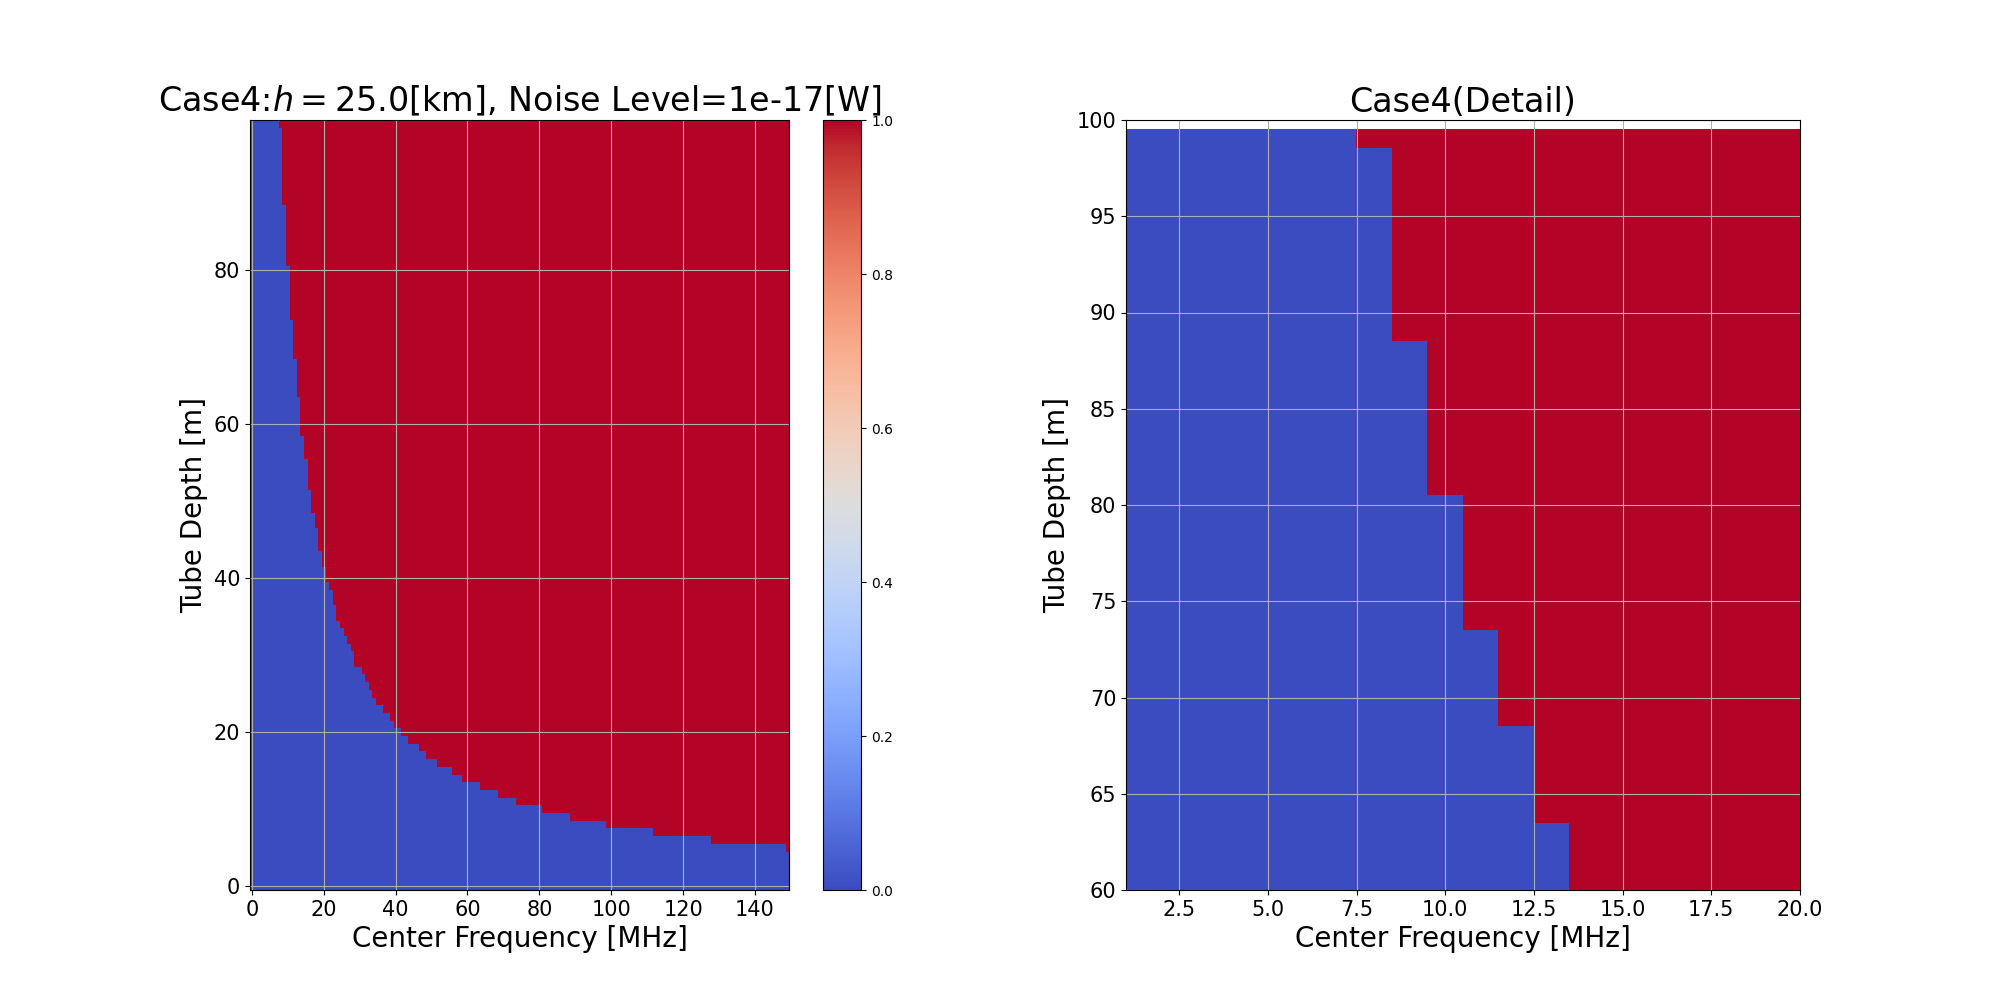
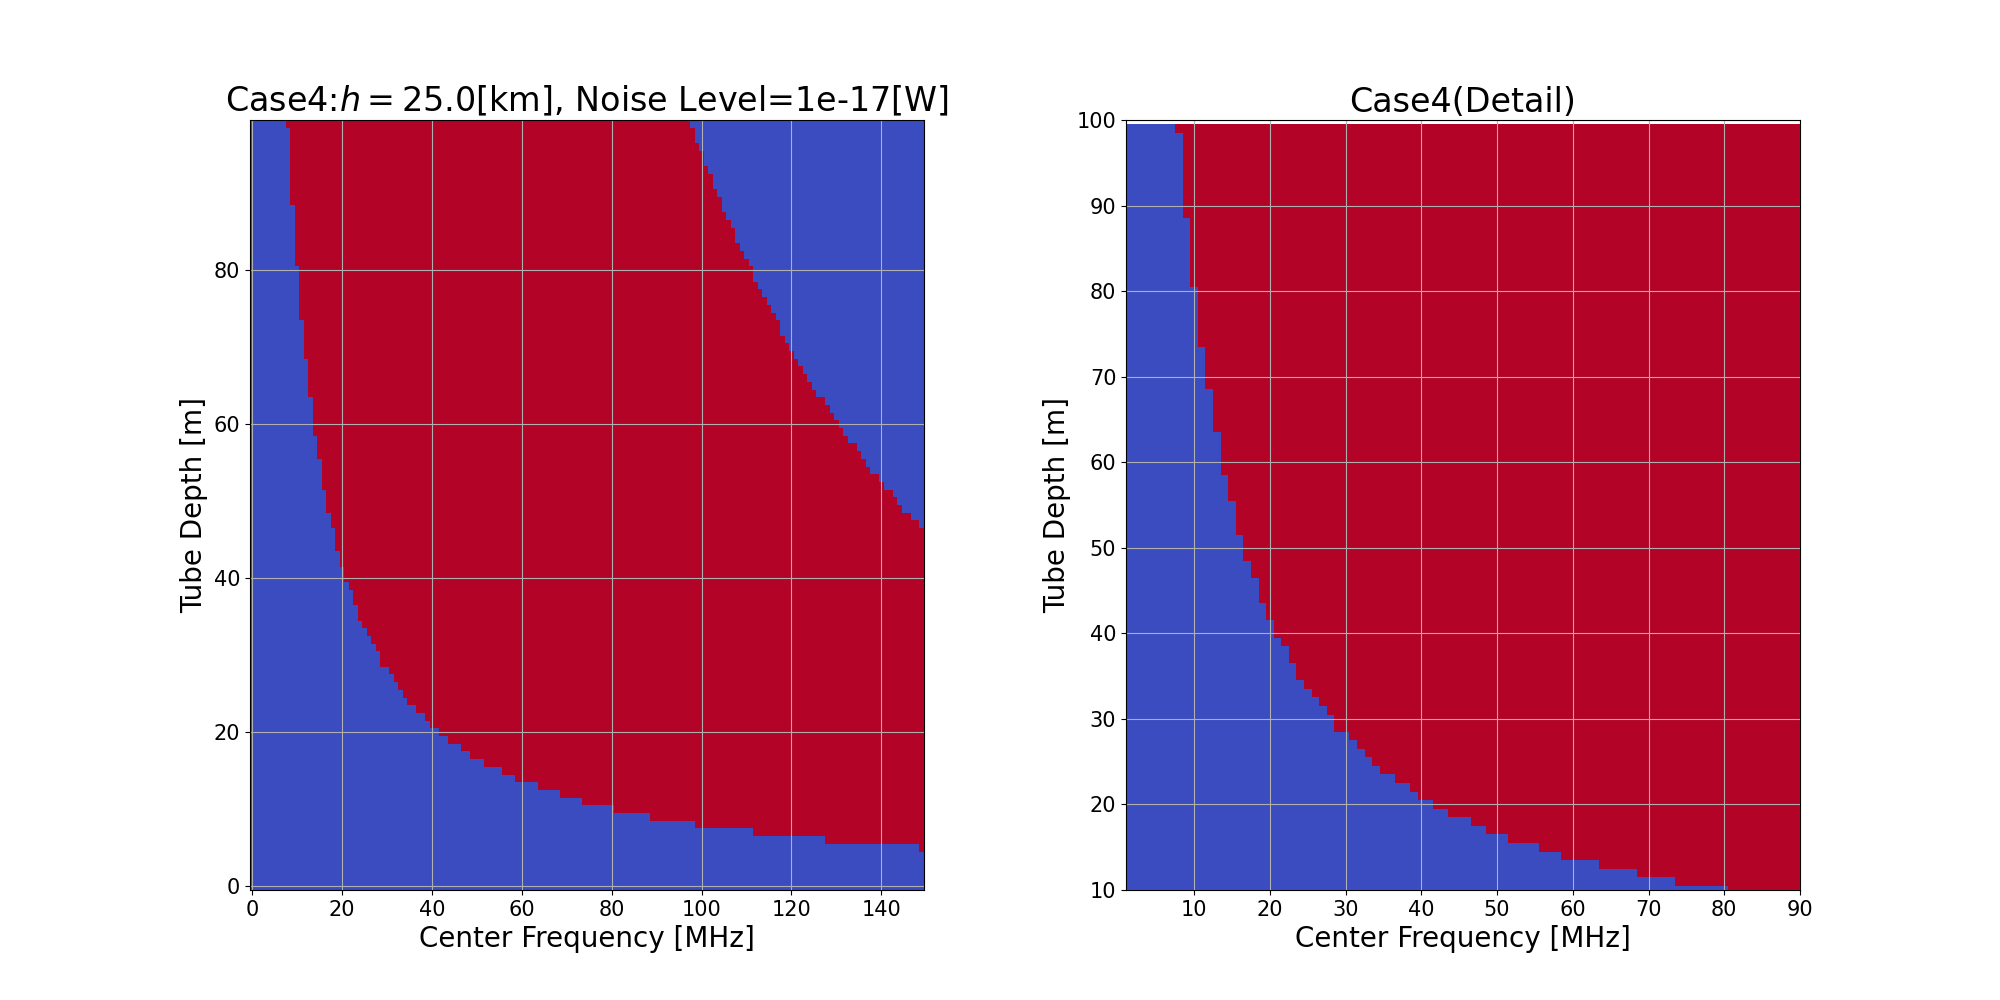
コード修正完了

diff --git a/recieved_power_dB.py b/recieved_power_dB.py
@@ -39,90 +39,103 @@ altitude = params['altitude'] #探査機の高度[m]
 
 
 
+
+#　反射係数・透過係数
+Gamma_r = (np.sqrt(epsilon_r) - np.sqrt(epsilon_0))**2 / (np.sqrt(epsilon_r) + np.sqrt(epsilon_0))**2
+Gamma_t = 1-Gamma_r
+
+
+#周波数、深さ
+freq = np.arange(freq_min, freq_max, freq_step)
+depth = np.arange(depth_min, depth_max, depth_step)
+# Rとfのメッシュグリッドを生成
+f_mesh, R_mesh = np.meshgrid(freq, depth)
+fR_array = np.zeros((len(depth), len(freq)))
+
+# レーダー断面積を深さに応じて変化させる
+sigma1 = (R_mesh * 3/2) ** 2
+sigma2 = (depth * 3/2) ** 2
+
+
+# ノイズレベルの算出[dB]
+noise_dB = 10*np.log10(noise_level / Pt)
+
 # 受信パワーの計算
 def calc_Pr():  
-    #　反射係数・透過係数
-    Gamma_r = (np.sqrt(epsilon_r) - np.sqrt(epsilon_0))**2 / (np.sqrt(epsilon_r) + np.sqrt(epsilon_0))**2
-    Gamma_t = 1-Gamma_r
-    print('reflect:', Gamma_r)
-    print('through:',Gamma_t)
+    for index_f, f in enumerate(freq):
+        for index_d, d in enumerate(depth):
+            RCS = (d * 3/2)**2
+            # 受信強度の計算[dB]
+            Pr = 10.0 * np.log10(gain**2 * c**2 / (4.0 * pi)**3 / (d + altitude)**4 / (f*10**6)**2 * RCS) + \
+                10.0 * np.log10(Gamma_r * Gamma_t**4) - \
+                (0.091 * f * np.sqrt(epsilon_r) * loss_tangent) * 2.0 * d
+    
+            #　ノイズレベルに対する強度に変換
+            Pr_detectability = Pr - noise_dB
+
+            fR_array[index_d, index_f] = Pr_detectability
+
+    return fR_array
+calc_Pr()
 
 
-    #周波数、深さ
-    freq = np.arange(freq_min, freq_max, freq_step)
-    depth = np.arange(depth_min, depth_max, depth_step)
-    # Rとfのメッシュグリッドを生成
-    f_mesh, R_mesh = np.meshgrid(freq, depth)
-
-    # レーダー断面積を深さに応じて変化させる
-    sigma1 = (R_mesh * 3/2) ** 2
-    sigma2 = (depth * 3/2) ** 2
-
-
-    # ノイズレベルの算出[dB]
-    noise_dB = 10*np.log10(noise_level / Pt)
-
-
-    # 受信強度の計算[dB]
-    Pr = 10.0 * np.log10(gain**2 * c**2 / (4.0 * pi)**3 / (R_mesh + altitude)**4 / (f_mesh*10**6)**2 * sigma1) + \
-        10.0 * np.log10(Gamma_r * Gamma_t**4) - \
-        (0.091 * f_mesh * np.sqrt(epsilon_r) * loss_tangent) * 2.0 * R_mesh
-    #　ノイズレベルに対する強度に変換
-    Pr_detectability = Pr - noise_dB
-
-
-    # 特定の周波数で固定してdepth対dBのプロットを作る
-    def calc_Pr_certain_freq(certain_f):
-        Pr_freq = 10.0 * np.log10(gain**2 * c**2 / (4.0 * pi)**3 / (depth + altitude)**4 / (certain_f*10**6)**2 * sigma2) + \
-        10.0 * np.log10(Gamma_r * Gamma_t**4) - \
-        (0.091 * certain_f * np.sqrt(epsilon_r) * loss_tangent) * 2.0 * depth
-        Pr_freq_detectability = Pr_freq - noise_dB
+# 特定の周波数で固定してdepth対dBのプロットを作る
+def calc_Pr_certain_freq(certain_f):
+    Pr_freq = 10.0 * np.log10(gain**2 * c**2 / (4.0 * pi)**3 / (depth + altitude)**4 / (certain_f*10**6)**2 * sigma2) + \
+    10.0 * np.log10(Gamma_r * Gamma_t**4) - \
+    (0.091 * certain_f * np.sqrt(epsilon_r) * loss_tangent) * 2.0 * depth
+    Pr_freq_detectability = Pr_freq - noise_dB
         
-        return Pr_freq_detectability
+    return Pr_freq_detectability
     
-    if params_file == 'rover' :
-        Pr_1 = calc_Pr_certain_freq(5.0)
-        Pr_2 = calc_Pr_certain_freq(25.0)
-        Pr_3 = calc_Pr_certain_freq(50.0)
-        Pr_4 = calc_Pr_certain_freq(100.0)
-        Pr_5 = calc_Pr_certain_freq(200.0)
-        Pr_6 = calc_Pr_certain_freq(300.0)
+if params_file == 'rover' :
+    Pr_1 = calc_Pr_certain_freq(5.0)
+    Pr_2 = calc_Pr_certain_freq(25.0)
+    Pr_3 = calc_Pr_certain_freq(50.0)
+    Pr_4 = calc_Pr_certain_freq(100.0)
+    Pr_5 = calc_Pr_certain_freq(200.0)
+    Pr_6 = calc_Pr_certain_freq(300.0)
     
-    else:
-        Pr_1 = calc_Pr_certain_freq(5.0)
-        Pr_2 = calc_Pr_certain_freq(25.0)
-        Pr_3 = calc_Pr_certain_freq(50.0)
-        Pr_4 = calc_Pr_certain_freq(75.0)
-        Pr_5 = calc_Pr_certain_freq(100.0)
-        Pr_6 = calc_Pr_certain_freq(150.0)
+else:
+    Pr_1 = calc_Pr_certain_freq(5.0)
+    Pr_2 = calc_Pr_certain_freq(25.0)
+    Pr_3 = calc_Pr_certain_freq(50.0)
+    Pr_4 = calc_Pr_certain_freq(75.0)
+    Pr_5 = calc_Pr_certain_freq(100.0)
+    Pr_6 = calc_Pr_certain_freq(150.0)
 
 
+# 計算の実行
+calc_Pr()
+calc_Pr_certain_freq
 
-    # アウトプットを保存するフォルダを作成
-    if params_file == 'rover' or 'LRS':
-        folder_name = "output_recieved_power/"+params_file + '/Case' + str(params['case_number'])
+# アウトプットするフォルダーのパスを作成
+if params_file == 'rover' or 'LRS':
+    folder_name = "output_recieved_power/"+params_file + '/Case' + str(params['case_number'])
 
-    else:
-        folder_name = "output_recieved_power/"+params_file + \
-        '_noise'+str(noise_dB) + "_h"+str(altitude)
+else:
+    folder_name = "output_recieved_power/"+params_file + \
+    '_noise'+str(noise_dB) + "_h"+str(altitude)
 
-
-    if not os.path.exists(folder_name):
-        os.makedirs(folder_name)
+# アウトプットを保存するフォルダを作成
+if not os.path.exists(folder_name):
+    os.makedirs(folder_name)
 
     
-    # パラメータ情報を保存
-    with open(folder_name + "/params.json", "w") as f:
-        json.dump(params, f)
+# パラメータ情報を保存
+#with open(folder_name + "/params.json", "w") as f:
+#    json.dump(params, f)
 
 
-    # パラメータの書き出し（txt形式）
-    with open(folder_name + '/params.txt', mode='w') as f:
-        for key, value in params.items():
-            f.write(str(key) + ": " + str(value) + "\n")
+# パラメータの書き出し（txt形式）
+with open(folder_name + '/params.txt', mode='w') as f:
+    for key, value in params.items():
+        f.write(str(key) + ": " + str(value) + "\n")
     
 
-    # レーダー断面積のプロット
+
+# レーダー断面積のプロット
+def plot_RCS():
     plt.figure(figsize=(10, 7))
     plt.plot(depth, sigma2)
 
@@ -135,14 +148,18 @@ def calc_Pr():
     plt.savefig('output_recieved_power/radar_cross_section.png')
     plt.show()
     
+#plot_RCS()
 
 
-    # カラーマップをプロット
+    # プロットの作成
+def plot():
     plt.figure(figsize=(18, 7))
+    plt.subplots_adjust(wspace=0.2)
 
 
     plt.subplot(1, 2, 1)
-    plt.pcolormesh(f_mesh, R_mesh, Pr_detectability, cmap='coolwarm', shading='auto', norm=Normalize(vmin= -50, vmax=50))
+    #plt.pcolormesh(f_mesh, R_mesh, calc_Pr, cmap='coolwarm', shading='auto', norm=Normalize(vmin= -50, vmax=50)
+    plt.imshow(fR_array, cmap='coolwarm', origin='lower', aspect='auto', vmin=-50, vmax=50)
 
     if params_file == 'rover':
         plt.title('Case'+ str(params['case_number']) + ':' \
@@ -155,7 +172,6 @@ def calc_Pr():
     cbar = plt.colorbar(label='Received power [dB]')
     cbar.ax.tick_params(labelsize=16)
     plt.tick_params(axis='both', labelsize=15)
-
 
 
     plt.subplot(1, 2, 2)
@@ -183,8 +199,6 @@ def calc_Pr():
     plt.grid()
     
     plt.savefig(folder_name + "/detectability_map.png")
-
-    plt.subplots_adjust(wspace=0.2)
     plt.show()
 
-calc_Pr()
+plot()

diff --git a/detectability.py b/detectability.py
@@ -59,14 +59,17 @@ fd_array = np.zeros((len(depth), len(freq)))
 def calc_detectability():
     for index_f, f in enumerate(freq):
         for index_d, d in enumerate(depth):
+            # エコー強度計算
             RCS = (d * 3/2)**2
             Pr = 10.0 * np.log10(gain**2 * c**2 / (4.0 * pi)**3 / (d + altitude)**4 / (f*10**6)**2 * RCS) + \
                 10.0 * np.log10(Gamma_r * Gamma_t**4) - \
-                (0.091 * f * np.sqrt(epsilon_0) * loss_tangent) * 2.0 * d
+                (0.091 * f * np.sqrt(epsilon_r) * loss_tangent) * 2.0 * d
             Pr_detectability = Pr - noise_dB
             
+            # 分解能計算
             dR = c / (2*np.sqrt(epsilon_r) * f * 0.5 * 10**6)
 
+            # 検出可能性の判定
             if Pr_detectability > 0 and dR <= d/6:
                 fd_array[index_d, index_f] = 1
             else:
@@ -114,9 +117,9 @@ plt.ylabel('Tube Depth [m]', size=20)  # 縦軸のラベルを設定
 plt.tick_params(axis='both', labelsize=15)
 plt.grid()
 
-x_min = 1
-x_max = 90
-y_min = 10
+x_min = 145
+x_max = 300
+y_min = 40
 y_max = 100
 
 plt.subplot(1, 2, 2)
